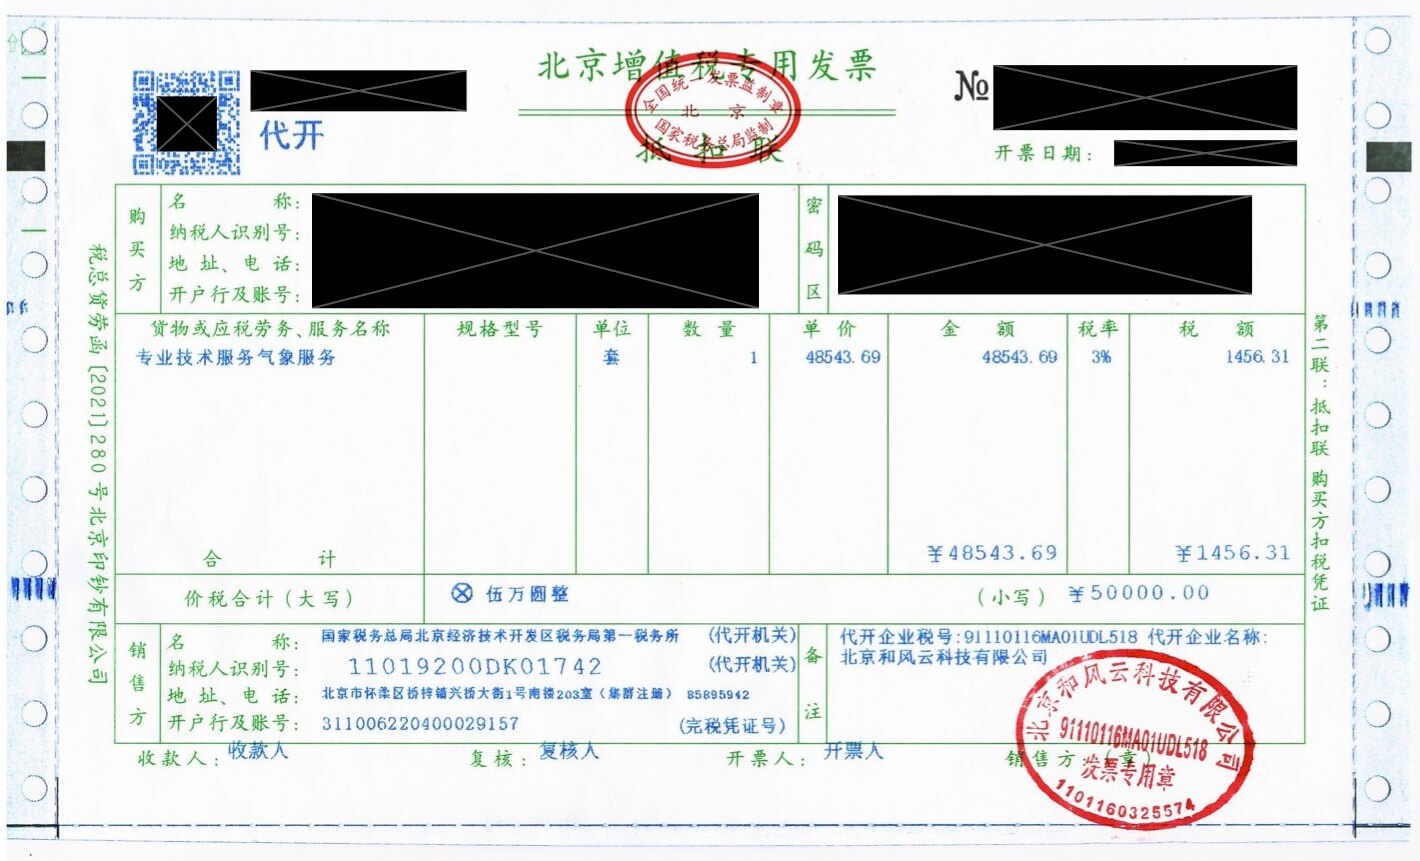
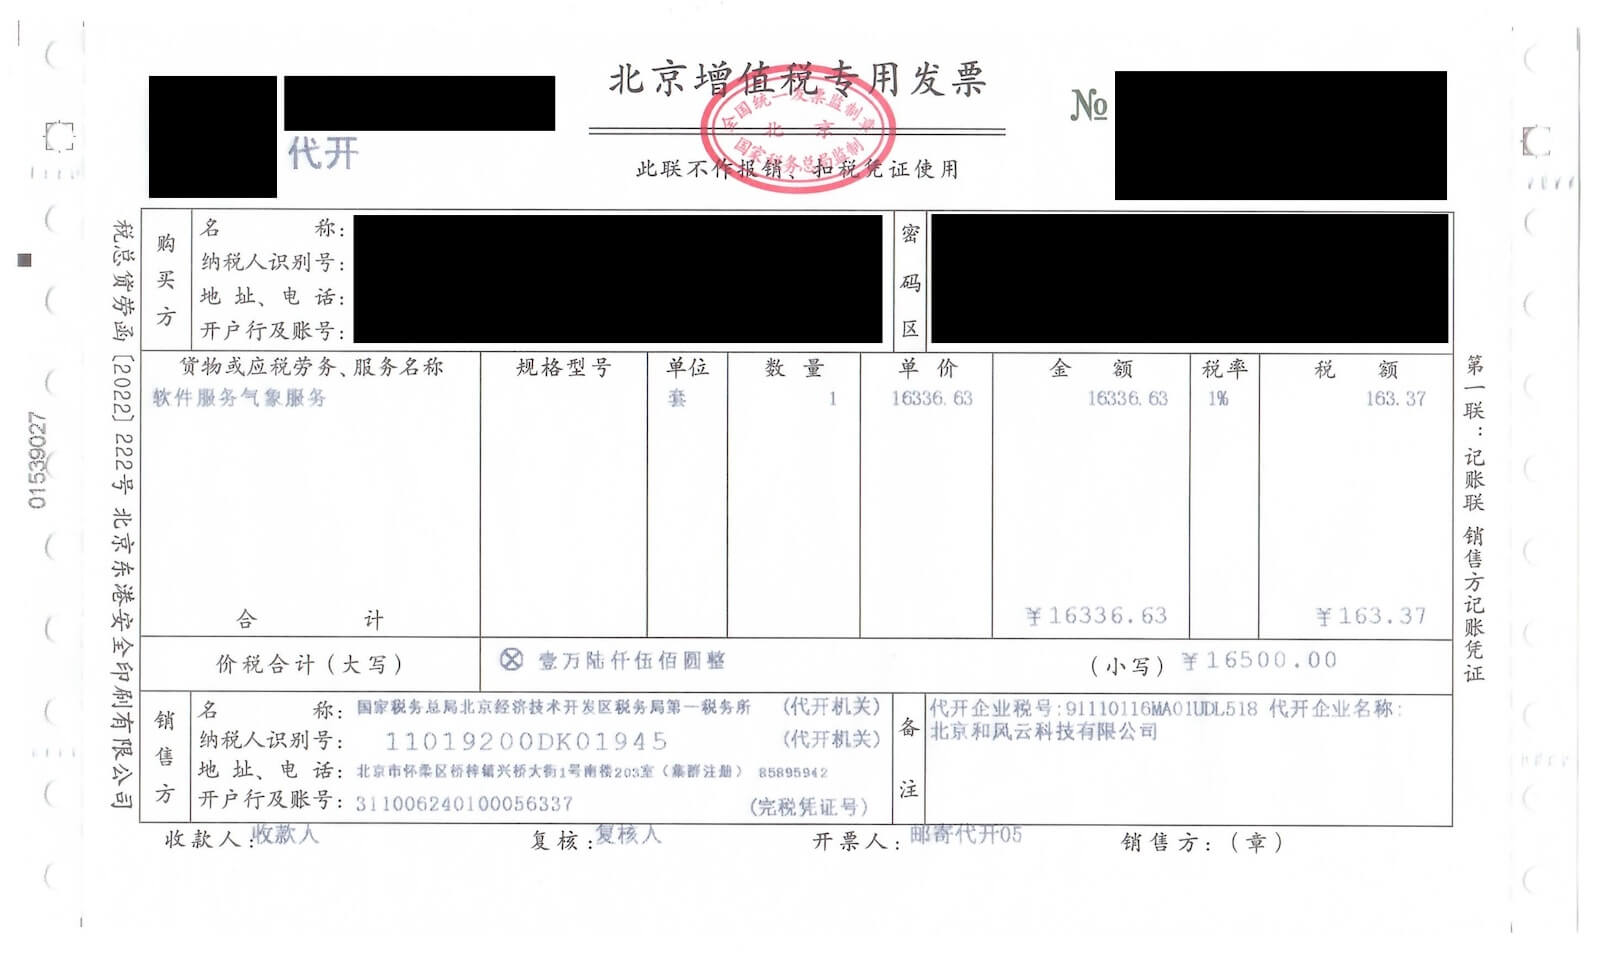
update vat sample and item (#118)

diff --git a/docs/_en/finance/vat-invoice.md b/docs/_en/finance/vat-invoice.md
@@ -32,7 +32,7 @@ According to the policy of tax administration, we will adjust the tax rate, whic
 
 ## Invoice item
 
-\*研发和技术服务*气象服务
+信息技术服务/软件服务/气象服务
 
 ## Invoice format
 

diff --git a/docs/_zh/finance/vat-invoice.md b/docs/_zh/finance/vat-invoice.md
@@ -48,7 +48,7 @@ ref: finance-vat-invoice
 
 ## 发票项目 {#invoice-item}
 
-\*研发和技术服务*气象服务
+信息技术服务/软件服务/气象服务
 
 ## 发票格式 {#invoice-format}
 
